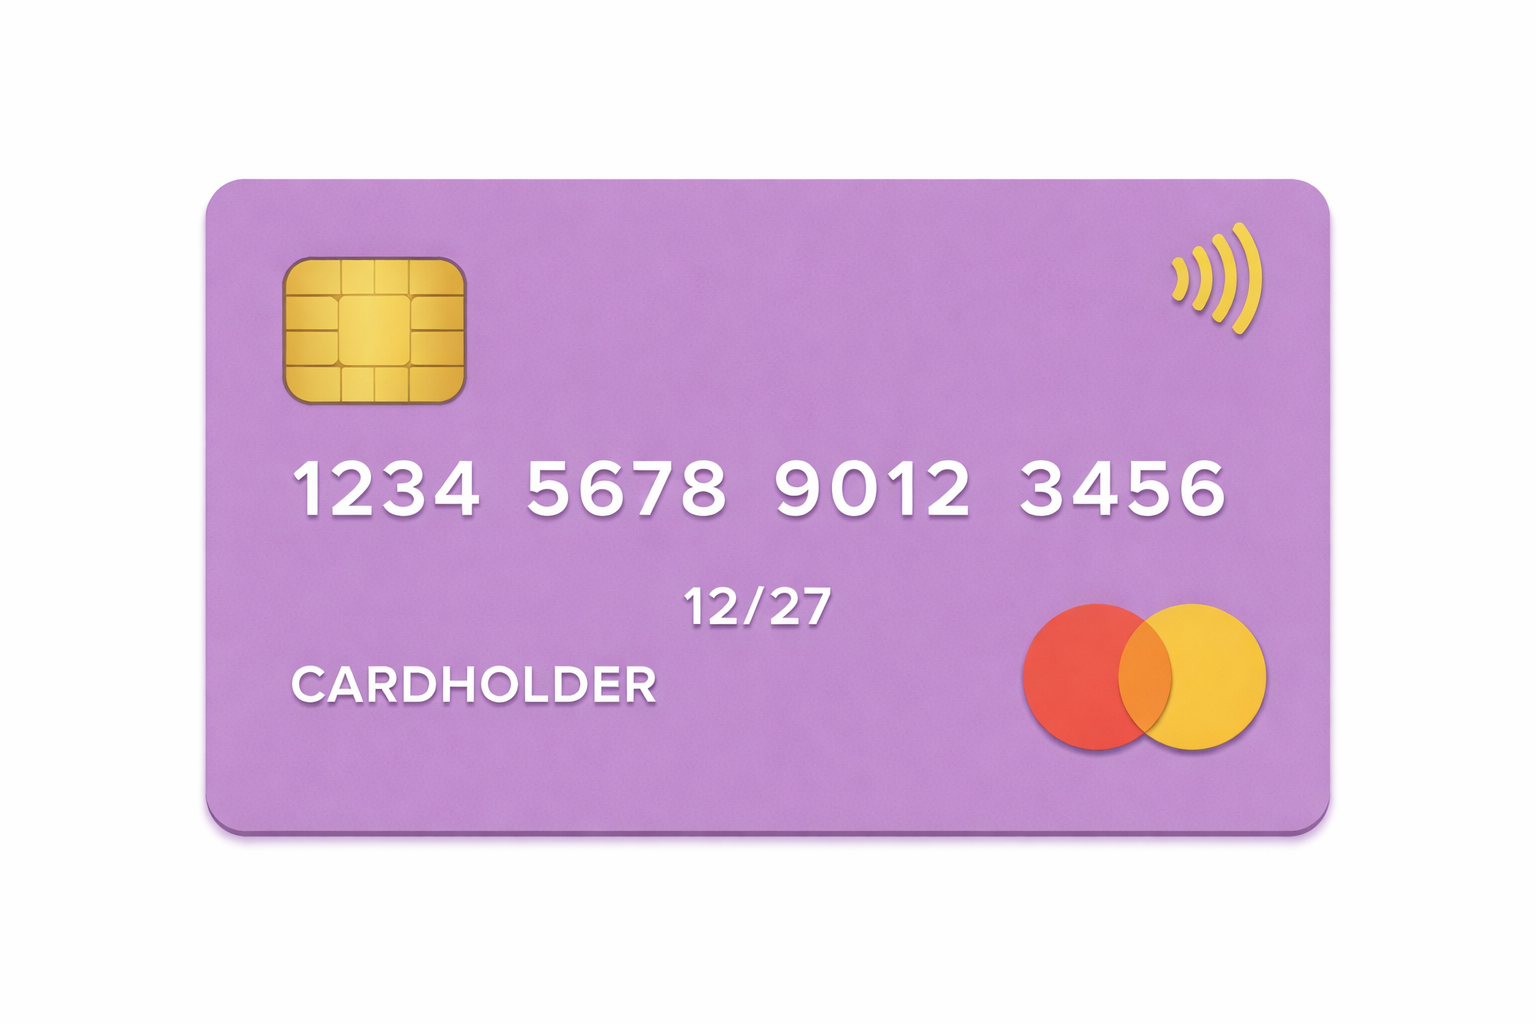
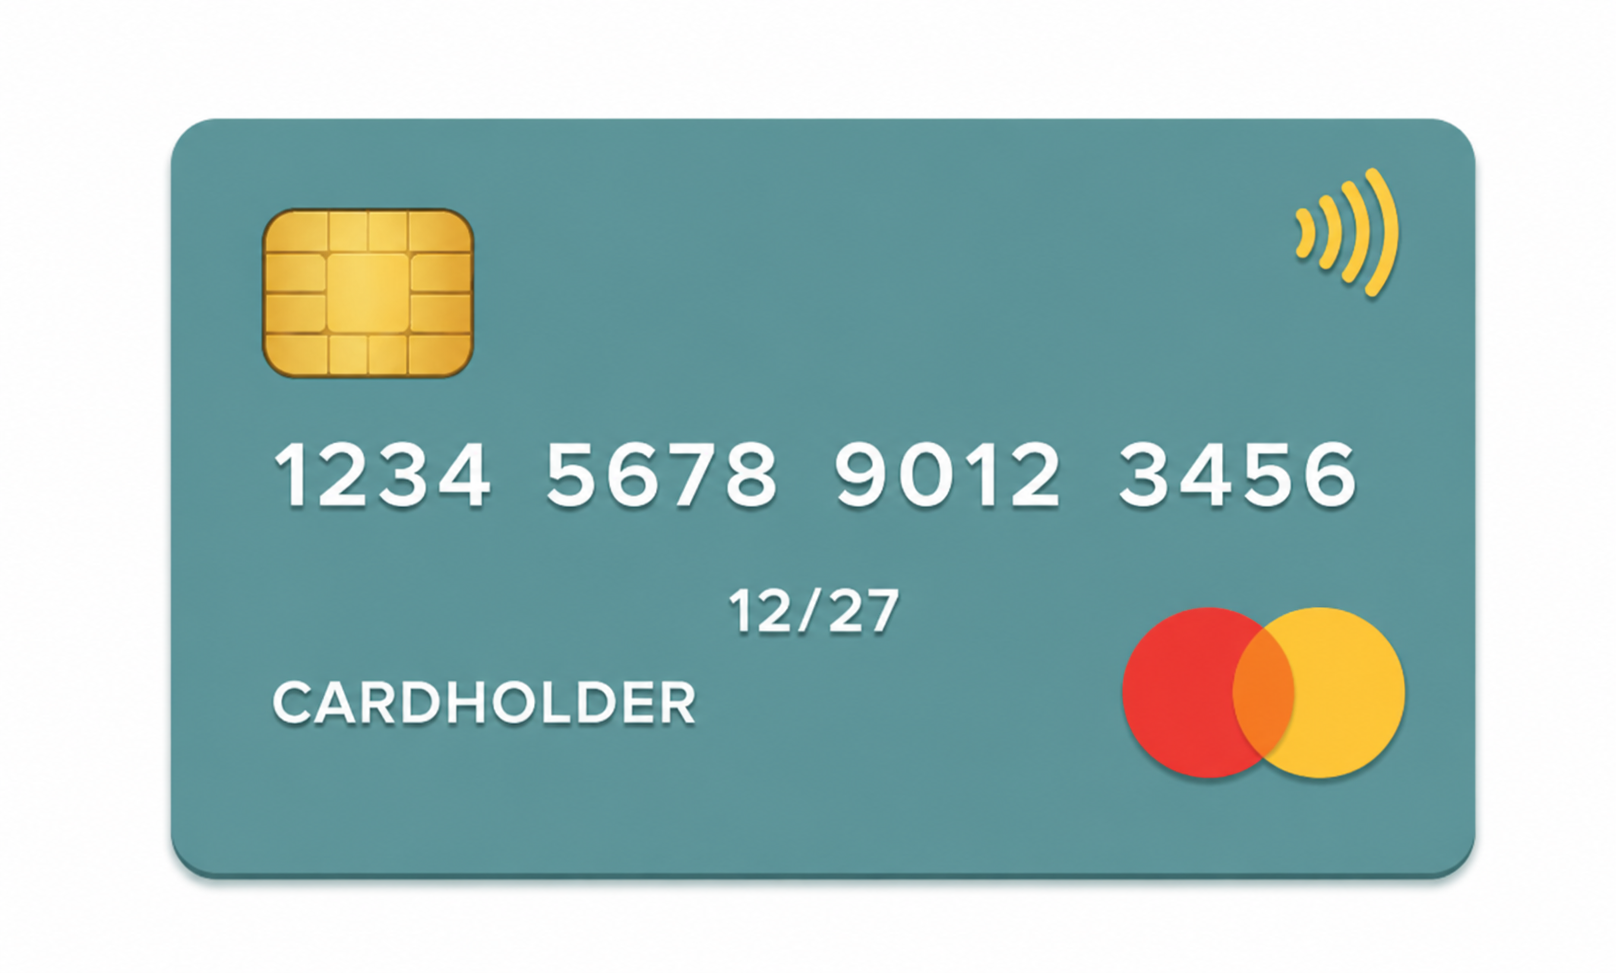
various UI style changes

diff --git a/client/src/components/PieChart/PieChart.jsx b/client/src/components/PieChart/PieChart.jsx
@@ -4,10 +4,12 @@ export default function PieChart({ categories, colorMap }) {
   const total = categories.reduce((sum, c) => sum + c.total, 0);
   if (total === 0) return null;
 
-  const size = 220;
-  const cx = size / 2;
-  const cy = size / 2;
-  const r = size / 2 - 8;
+  const vb = 600;
+  const cx = vb / 2;
+  const cy = vb / 2;
+  const r = 110;
+  const ir = Math.round(r * 0.55);
+  const labelR = r + 48;
 
   const sorted = [...categories].sort((a, b) => b.total - a.total);
 
@@ -18,31 +20,59 @@ export default function PieChart({ categories, colorMap }) {
     const start = cumAngle;
     cumAngle += angle;
     const end = cumAngle;
-    const x1 = cx + r * Math.cos(start);
-    const y1 = cy + r * Math.sin(start);
-    const x2 = cx + r * Math.cos(end);
-    const y2 = cy + r * Math.sin(end);
+    const mid = start + angle / 2;
+
+    const ox1 = cx + r * Math.cos(start);
+    const oy1 = cy + r * Math.sin(start);
+    const ox2 = cx + r * Math.cos(end);
+    const oy2 = cy + r * Math.sin(end);
+    const ix1 = cx + ir * Math.cos(start);
+    const iy1 = cy + ir * Math.sin(start);
+    const ix2 = cx + ir * Math.cos(end);
+    const iy2 = cy + ir * Math.sin(end);
     const largeArc = angle > Math.PI ? 1 : 0;
-    const path = `M ${cx} ${cy} L ${x1} ${y1} A ${r} ${r} 0 ${largeArc} 1 ${x2} ${y2} Z`;
-    return { path, color: colorMap[cat.name], name: cat.name, fraction };
+    const path = `M ${ox1} ${oy1} A ${r} ${r} 0 ${largeArc} 1 ${ox2} ${oy2} L ${ix2} ${iy2} A ${ir} ${ir} 0 ${largeArc} 0 ${ix1} ${iy1} Z`;
+
+    const lx = cx + labelR * Math.cos(mid);
+    const ly = cy + labelR * Math.sin(mid);
+    const cosM = Math.cos(mid);
+    const sinM = Math.sin(mid);
+    const anchor = cosM > 0.15 ? 'start' : cosM < -0.15 ? 'end' : 'middle';
+
+    const lineX1 = cx + (r + 5) * cosM;
+    const lineY1 = cy + (r + 5) * sinM;
+    const lineX2 = cx + (labelR - 12) * cosM;
+    const lineY2 = cy + (labelR - 12) * sinM;
+
+    // For labels near the top (anchor="middle", sinM<0), the line approaches from
+    // below and the text also extends downward — anchor text bottom to the line
+    // endpoint so there's no gap between line and label.
+    const textTopY = anchor === 'middle' && sinM < 0 ? lineY2 - 32 : ly;
+
+    return {
+      path, color: colorMap[cat.name], name: cat.name, fraction,
+      catTotal: cat.total, lx, ly: textTopY, anchor,
+      lineX1, lineY1, lineX2, lineY2,
+    };
   });
 
   return (
     <div className={styles.chartWrap}>
-      <svg width={size} height={size} viewBox={`0 0 ${size} ${size}`}>
+      <svg width="100%" viewBox={`0 105 ${vb} 400`}>
         {slices.map(s => (
           <path key={s.name} d={s.path} fill={s.color} stroke="#fff" strokeWidth={1.5} />
         ))}
-      </svg>
-      <div className={styles.legend}>
         {slices.map(s => (
-          <div key={s.name} className={styles.legendItem}>
-            <span className={styles.legendSwatch} style={{ backgroundColor: s.color }} />
-            <span className={styles.legendLabel}>{s.name}</span>
-            <span className={styles.legendPct}>{(s.fraction * 100).toFixed(1)}%</span>
-          </div>
+          <g key={`label-${s.name}`}>
+            <line x1={s.lineX1} y1={s.lineY1} x2={s.lineX2} y2={s.lineY2} stroke="#bbb" strokeWidth={1} />
+            <text textAnchor={s.anchor} fontFamily="sans-serif">
+              <tspan x={s.lx} y={s.ly} fontSize="13" fontWeight="600" fill="#333">{s.name}</tspan>
+              <tspan x={s.lx} dy="17" fontSize="12" fill="#444">${s.catTotal.toFixed(2)}</tspan>
+              <tspan x={s.lx} dy="15" fontSize="11" fill="#777">{(s.fraction * 100).toFixed(1)}%</tspan>
+            </text>
+          </g>
         ))}
-      </div>
+      </svg>
     </div>
   );
 }

diff --git a/client/src/components/PieChart/PieChart.module.css b/client/src/components/PieChart/PieChart.module.css
@@ -1,38 +1,6 @@
 .chartWrap {
   display: flex;
-  align-items: center;
   justify-content: center;
-  gap: 2.5rem;
-  margin-bottom: 2.5rem;
-  flex-wrap: wrap;
-}
-
-.legend {
-  display: flex;
-  flex-direction: column;
-  gap: 0.5rem;
-}
-
-.legendItem {
-  display: flex;
-  align-items: center;
-  gap: 0.5rem;
-  font-size: 0.875rem;
-}
-
-.legendSwatch {
-  width: 0.75rem;
-  height: 0.75rem;
-  border-radius: 0.125rem;
-  flex-shrink: 0;
-}
-
-.legendLabel {
-  flex: 1;
-}
-
-.legendPct {
-  color: #666;
-  min-width: 2.5rem;
-  text-align: right;
+  margin: 0.5rem auto 0.75rem;
+  max-width: 520px;
 }

diff --git a/client/src/constants/constants.js b/client/src/constants/constants.js
@@ -9,8 +9,16 @@ export const CURRENT_YEAR = new Date().getFullYear();
 export const YEARS = Array.from({ length: 10 }, (_, i) => CURRENT_YEAR - i);
 
 export const PIE_COLORS = [
-  '#4e79a7', '#f28e2b', '#e15759', '#76b7b2', '#59a14f',
-  '#edc948', '#b07aa1', '#ff9da7', '#9c755f', '#bab0ac',
+  "#c8d6d3",
+  "#5f9595",
+  "#fdbaa8",
+  "#f5d0c3",
+  "#efbb68",
+  "#abb8bd",
+  "#f9d08c",
+  "#f9e3de",
+  "#f4dcce",
+  "#88acab"
 ];
 
 export const CATEGORY_ORDER = ['dining', 'groceries', 'shopping', 'entertainment', 'transportation', 'other'];

diff --git a/client/src/styles/global.css b/client/src/styles/global.css
@@ -8,10 +8,10 @@ body {
 }
 
 :root {
-  --primary: #ad77c9;
+  --primary: #5f9595;
   --hover-bg: #f0f0f0;
 }
 
 button:hover:not(:disabled) {
-  background-color: #9a5fb8;
+  background-color: #4a7a7a;
 }
